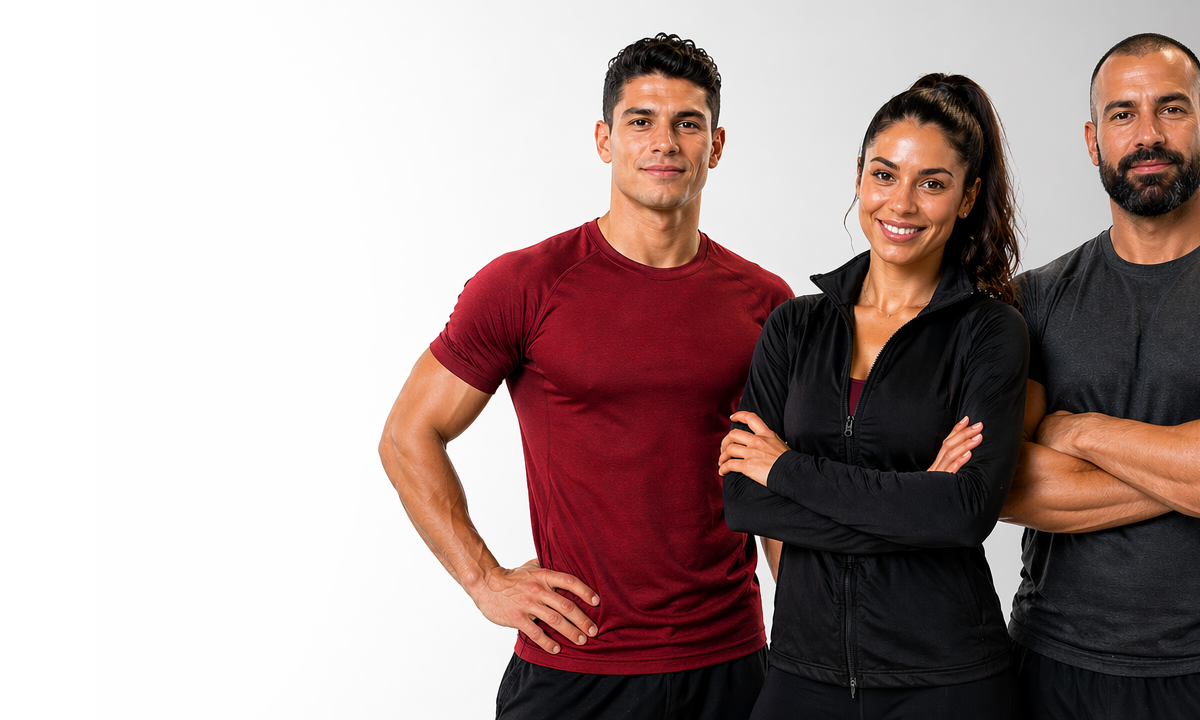
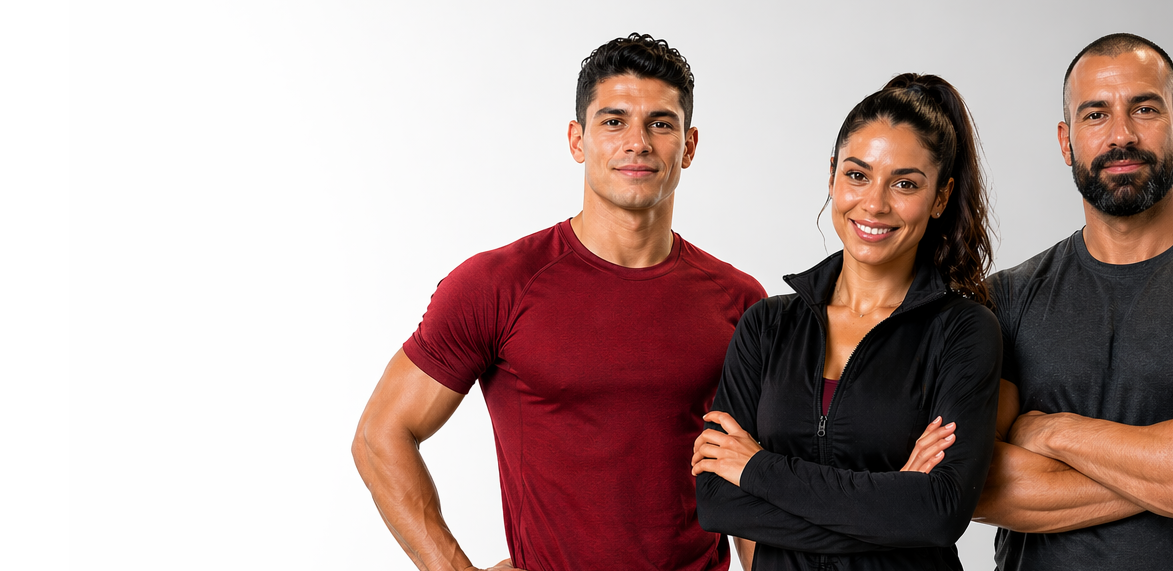
fix: components.css

diff --git a/css/components.css b/css/components.css
@@ -51,8 +51,7 @@ header nav ul li a {
   font-size: 0.9rem;
 }
 
-header nav ul li a:hover,
-header nav ul li a:focus-visible {
+header nav ul li a:hover, header nav ul li a:focus-visible {
   background: #ffffff;
   color: var(--text);
   text-decoration: none;
@@ -71,8 +70,7 @@ header nav ul li:last-child a {
   font-weight: 700;
 }
 
-header nav ul li:last-child a:hover,
-header nav ul li:last-child a:focus-visible {
+header nav ul li:last-child a:hover, header nav ul li:last-child a:focus-visible {
   background: var(--secondary-strong);
   color: var(--text);
   text-decoration: none;
@@ -123,8 +121,7 @@ nav.right {
   text-decoration: none;
 }
 
-.footer a:hover,
-.footer a:focus-visible {
+.footer a:hover, .footer a:focus-visible {
   color: white;
   text-decoration: underline;
 }
@@ -142,8 +139,7 @@ nav.right {
   text-decoration: none;
 }
 
-.btn-primary:hover,
-.btn-primary:focus-visible {
+.btn-primary:hover, .btn-primary:focus-visible {
   background: var(--primary-strong);
   color: white;
   text-decoration: none;
@@ -208,8 +204,7 @@ nav.right {
   border-collapse: collapse;
 }
 
-.th,
-.td {
+.th, .td {
   border: 1px solid var(--border);
   padding: 0.55rem;
   text-align: center;
@@ -247,8 +242,7 @@ nav.right {
   grid-template-columns: repeat(auto-fit, minmax(250px, 1fr));
 }
 
-.division-card,
-.trainer-card {
+.division-card, .trainer-card {
   display: flex;
   flex-direction: column;
   background: var(--surface);
@@ -259,20 +253,17 @@ nav.right {
   transition: transform 0.2s ease, box-shadow 0.2s ease;
 }
 
-.division-card:hover,
-.trainer-card:hover {
+.division-card:hover, .trainer-card:hover {
   transform: scale(1.02);
   box-shadow: 0 10px 20px rgba(15, 23, 42, 0.15);
 }
 
-.division-card img,
-.trainer-card img {
+.division-card img, .trainer-card img {
   width: 100%;
   object-fit: cover;
 }
 
-.division-content,
-.trainer-content {
+.division-content, .trainer-content {
   display: flex;
   flex-direction: column;
   gap: 0.35rem;
@@ -378,8 +369,7 @@ nav.right {
   padding: 2rem;
 }
 
-.content h3,
-.content p {
+.content h3, .content p {
   color: white;
   margin: 0;
 }
@@ -408,14 +398,11 @@ nav.right {
 }
 
 .intro-panel-dark {
-  background:
-    radial-gradient(circle at top right, rgba(250, 204, 21, 0.22), transparent 18rem),
-    linear-gradient(135deg, var(--dark), var(--dark-soft));
+  background: radial-gradient(circle at top right, rgba(250, 204, 21, 0.22), transparent 18rem), linear-gradient(135deg, var(--dark), var(--dark-soft));
   color: white;
 }
 
-.intro-panel-dark h2,
-.intro-panel-dark p {
+.intro-panel-dark h2, .intro-panel-dark p {
   color: white;
 }
 
@@ -452,8 +439,7 @@ nav.right {
   gap: 1.2rem;
 }
 
-.filter-group select,
-.filter-group input {
+.filter-group select, .filter-group input {
   flex: 1;
   min-width: 150px;
   width: auto;
@@ -480,32 +466,25 @@ nav.right {
   transform: translateY(-2px);
 }
 
-.focus-grid,
-.contact-grid {
+.focus-grid, .contact-grid {
   display: grid;
   grid-template-columns: repeat(3, minmax(0, 1fr));
   gap: 1rem;
 }
 
-.focus-card,
-.contact-card {
+.focus-card, .contact-card {
   border: none;
   border-radius: 20px;
   padding: 1.15rem;
-  background:
-    linear-gradient(180deg, rgba(2, 132, 199, 0.08), transparent 65%),
-    var(--surface);
   box-shadow: 0 12px 26px rgba(15, 23, 42, 0.07);
 }
 
-.focus-card h3,
-.contact-card h3 {
+.focus-card h3, .contact-card h3 {
   color: var(--dark);
   font-size: 1rem;
 }
 
-.focus-card p,
-.contact-card p {
+.focus-card p, .contact-card p {
   font-size: 0.88rem;
 }
 
@@ -558,8 +537,7 @@ nav.right {
   color: var(--text);
 }
 
-.review-text,
-.r-p {
+.review-text, .r-p {
   text-align: left;
   margin-top: 0.5rem;
   margin-bottom: 0;
@@ -604,15 +582,12 @@ nav.right {
   border: none;
   border-radius: 24px;
   padding: 1.4rem;
-  background:
-    radial-gradient(circle at top right, rgba(250, 204, 21, 0.22), transparent 18rem),
-    linear-gradient(135deg, var(--dark), var(--dark-soft));
+  background: radial-gradient(circle at top right, rgba(250, 204, 21, 0.22), transparent 18rem), linear-gradient(135deg, var(--dark), var(--dark-soft));
   color: white;
   box-shadow: 0 18px 40px rgba(15, 23, 42, 0.15);
 }
 
-.cta-section h2,
-.cta-section h3 {
+.cta-section h2, .cta-section h3 {
   color: white;
 }
 
@@ -625,8 +600,7 @@ nav.right {
   font-weight: 700;
 }
 
-.cta-section a:hover,
-.cta-section a:focus-visible {
+.cta-section a:hover, .cta-section a:focus-visible {
   color: var(--secondary-strong);
   text-decoration: none;
 }
@@ -703,41 +677,6 @@ nav.right {
 .rating-stars {
   color: var(--secondary-strong);
   font-size: 0.9rem;
-}
-
-@media (max-width: 1250px) {
-  header {
-    flex-wrap: wrap;
-    align-items: center;
-    justify-content: space-between;
-    height: auto;
-    padding: 0.6rem 1rem;
-    gap: 0.5rem;
-  }
-
-  header > div:first-child {
-    flex: 0 0 auto;
-  }
-
-  .middle {
-    flex: 0 0 auto;
-    justify-content: flex-start;
-  }
-
-  .middle h1 {
-    font-size: 1.2rem;
-    margin-left: 0.5rem;
-  }
-
-  header nav {
-    flex: 1 1 100%;
-    justify-content: center;
-  }
-
-  header nav ul {
-    justify-content: center;
-    gap: 0.6rem;
-  }
 }
 
 @media (max-width: 1100px) {
